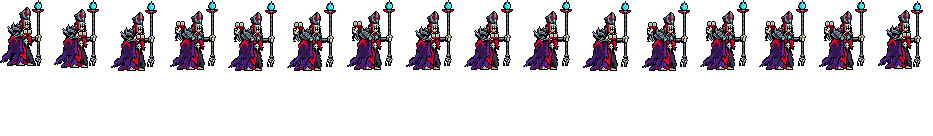
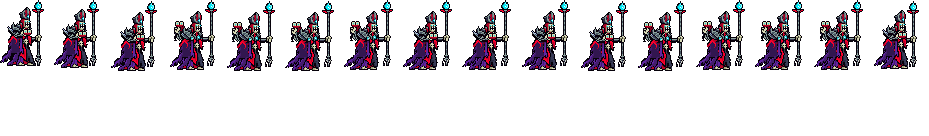
卡尔萨斯动作补帧：R 安魂曲 16 帧 7 姿势 -> 16 帧 11 姿势（悬空时袍子下摆往后拖 1-4 格一来一回；还是用造型自己的格子摆）
用户：「还有有的动画感觉只有一帧 不如oppi的地方都要补 参考联盟的动画」，又说「动画你觉得少的地方就想办法补」「能改就想办法改 全都要改」，
现在「剩下的一批英雄也做了啊 都做完了装进去了再测」。对照表里 R 悬空吟唱的 2.5 秒：书举在头后、举在身前各 4 张，下摆只在拖 2、3 格
之间换，其中两张是同一张画——每个举书的姿势看起来就是一张停 0.84 秒。没有新画，没有交给 Codex，没有用图像模型。
数法：「几帧，其中几个不同的姿势」。

- tools/art/rig_karthus.py（他的图集就是它写的，f7aa50652：干净的树上 rig -> ppu_restyle -> ppu_hd -> hero_reels 四步逐文件
  复现）：R 的 hover 表只改下摆往后拖的格数（它原来的 sway_rows）：书在头后 1、2、3、4，书在身前 4、3、2、1，再举到头后
  2、3、4、3；手臂、书、上下浮动和每张的毫秒照旧，12 张悬空帧每张都不一样
- 时间：起势 110 x 3、悬空 210 x 12、落下 150，一共还是 3000，开始悬空 330、落下 2850 没变；帧数也没变（16）
- 图集和 fanim 重新生成（2048x762 没变）；其余 8 个标签（连同 hd_、lo_ 和待机共 24 个）逐帧像素、时长都没变，跑步
  （下摆和脚不动、只有浮动和两根飘带的那版）逐帧没变；hero_reels.json 不用改（待机剪的是 E），选人卡片还是普攻、Q、E、R
  （53 帧、18160 毫秒，只换了 R 那几张）；选人格子用的那张 1.39 -> 1.41 MiB
- docs/heroes/league_karthus.md「开发记录」加一行

不满意的地方：只有下摆在动（最多 4 格，3 倍下看得见）；举书的手臂还是只有头后、身前两种；起势和落下没补。

查过：hero_reels --check --hero karthus（0）；新旧图集逐帧对比（compare_sheets：24 个标签逐帧没变，R 总长 3000，330 / 2850
两个分界还在）；sheet_audit（R 的两个 1 格针孔是原来那两张自己的）；ui_sheets（bp 304.0 / 768 MiB）；league_viego_soul
make_override 和 --check；gen_hero_docs --check；cargo test --release -p hd_engine -p league_main -p league_viego_soul
-p league_karthus（48 + 41 + 26 + 26 全过）。每帧 3 倍、下摆 5 倍看过；流水线在这次提交上重跑，文件不变。

Changed region(s): [[0.5307, 0.0, 0.9989, 0.5294], [0.0312, 0.0, 0.4995, 0.5294]]

diff --git a/tools/art/rig_karthus.py b/tools/art/rig_karthus.py
@@ -438,8 +438,12 @@ def frames_all(F):
     # then in front, then up again -, coming down; the whole tag 3 s, the channel
     low = dict(near_rot=1, near=NEAR_BOOK, book=BOOK_AT)
     high = dict(near_rot=2, near=NEAR_HIGH, book=BOOK_HIGH)
-    hover = [(high, 0, -2), (high, 1, -3), (high, 1, -3), (high, 0, -2), (low, -1, -2), (low, -1, -3), (low, 0, -3),
-             (low, 1, -2), (high, 1, -2), (high, 0, -3), (high, -1, -3), (high, -1, -2)]
+    # (2026-11-14, the user: 「有的动画感觉只有一帧 不如oppi的地方都要补 参考联盟的动画」: the hover's rags trailed 2 or 3
+    # columns, two hover frames were one picture and each held arm looked like one frame for 840 ms - now the hem's trail
+    # runs 1 to 4 columns and back with each held arm, every hover frame its own picture; the arms, the book, the bob and
+    # the milliseconds as they were)
+    hover = [(high, 0, -1), (high, 1, -2), (high, 1, -3), (high, 0, -4), (low, -1, -4), (low, -1, -3), (low, 0, -2),
+             (low, 1, -1), (high, 1, -2), (high, 0, -3), (high, -1, -4), (high, -1, -3)]
     out["ult"] = ([p(**low), p(staff=(0, -2), whole=(0, -5), hem=-1, **low), p(staff=(0, -4), whole=(0, -10), hem=-2, **low)] +
                   [p(staff=(0, -4), reach=2, whole=(0, -RISE + b), hem=h, **arm) for arm, b, h in hover] +
                   [p(staff=(0, -2), whole=(0, -6), hem=-1, **low)])

diff --git a/docs/heroes/league_karthus.md b/docs/heroes/league_karthus.md
@@ -99,6 +99,7 @@
 | 11 月 3 日（下午） | 用户看比赛时：「等等死歌灵体还是有bug」「死了灵体还能移动 还能有残血？」「这能和英雄联盟一样吗」「还有死了后为什么AI还攻击灵体 很奇怪啊」。0.4.x 的灵体是 1 血、活着的他：只在开头放逐 12 tick，之后小兵、塔、英雄照打（1 血的英雄正是 AI 最想补的），头上一条残血，移速 −100% 挡不住位移；复活时间也从没扣过（`on_dead` 时游戏还没把他记成阵亡，日志 44 次全是 `RESPAWN NOT CUT (alive)`）。附加包 0.5.0：整个灵体放逐着（谁都选不中、打不到，没有血条，不能走、不能回城，钉在倒下的地方），放逐的锁定画面是他的灵体图（`tools/art/draw_karthus_ghost.py`，主包 0.305.0、league.dll 0.9.5 登记），灵体的亵渎、荒芜、安魂曲由附加包照主包的数字和画面放，击杀算他的；复活时间改在阵亡后第一 tick 由 AI 钩子扣 |
 | 11 月 3 日（晚上） | 用户看比赛时：「不行死歌还是不对 灵体结束后还能回城 你修不好了？」「被人击杀后显示灵体就已经是死亡了啊」「灵体状态下会放其他技能吗 也检查下 我怎么感觉不会放」。查日志：倒下那一下和摘掉灵体的不死、减伤在同一 tick，伤害到这一 tick 结算时才扣，刚摘掉的 buff 还算数，只打出 1 点，他 1 血活下来、放逐一完就回城（回城日志：3:55 倒下、3:56 0% 血回城；0.4.2 也一样）；复活时间 0.5.0 一次都没扣成（阵亡后他自己的钩子都不跑）；放逐的单位不给队伍视野，灵体只挑队伍看得见的敌人，身边没队友时荒芜、亵渎打不到人，痛苦之墙挂在普攻上、灵体从没立过。附加包 0.5.1：灵体最后一 tick 换下不死（`p_fall`），放逐正好在 7 秒到时结束，下一 tick 才补致命一击、没倒下就再补，倒下前他什么命令都不下（回城换成站着），韧性缩短了放逐就重新放逐；复活时间由任何还活着的英雄的钩子在他登记阵亡后扣；灵体用自己的眼睛挑目标，W 好了就在 60000 内最近的敌方英雄身上立痛苦之墙（减速 40%、魔抗 −20%，照主包）。日志 `FALL` 记这个灵体放了几次 Q、W、E、R |
 | 11 月 4 日 | 11-03 晚两次启动的日志（0.5.1）：倒下都是真死了（放下不死后 3 tick 第一下就倒，偶尔补第二下），灵体放了 Q、W、E、R，想让他回城的 AI 命令全拦下；可复活时间 120 次全没扣成：0.5.1 由每个英雄的 AI 钩子扣、按模拟状态指针配对，AI 钩子拿到的指针和被动的不一样。附加包 0.5.2：改由本包的比赛钩子（每局每 tick）扣，按「哪一局」（种类、比赛、小局）、玩家、阵亡 tick 配对，第一次看到他阵亡时定下复活的 tick，每份模拟都扣到不晚于它（同一局并排的两份预演共用一条，扣不了两遍）；日志 `MATCH HOOK`、`RESPAWN` |
+| 动作补帧（2026-11-14） | 用户：「还有有的动画感觉只有一帧 不如oppi的地方都要补 参考联盟的动画」，又说「动画你觉得少的地方就想办法补」「能改就想办法改 全都要改」。对照表里 R「安魂曲」：16 帧里只有 7 个姿势，悬空吟唱的 2.5 秒里书举在头后、举在身前各 4 张，袍子下摆只在往后拖 2、3 格之间换，其中两张是同一张画——每个举书的姿势看起来就是一张停 0.84 秒。没有新画，也没交给 Codex：还是 [`tools/art/rig_karthus.py`](../../tools/art/rig_karthus.py) 用造型自己的格子摆的姿势，只把悬空那 12 张下摆往后拖的格数改成随着举书一来一回地 1、2、3、4 格（`hover`，用的还是它原来的 `sway_rows`），手臂、书、浮动、毫秒都照旧。下面写的是「几帧，其中几个不同的姿势」。**R 安魂曲** 16 帧（7 个姿势）→ 16 帧，其中 11 个；悬空 12 张每张都不一样（以前有两张一样）。起势 110×3、悬空 210×12、落下 150，一共还是 3000 毫秒，开始悬空（330）和落下（2850）的毫秒没变。技能数据没改；跑（f7aa50652 那版：下摆和脚不动、只有浮动和两根飘带）、待机、普攻、W、Q、E、受击、阵亡逐帧没变。每帧 3 倍、下摆 5 倍看过。待机剪的还是 E（`hero_reels.json` 不用改），选人卡片还是普攻、Q、E、R，逐帧换的只有 R 那几张（53 帧、一圈 18160 毫秒没变）。图集 2048×762 没变大，选人格子用的那张 1.39 → 1.41 MiB。游戏里还没看过 |
 
 重新生成（素材来自本机的英雄联盟客户端，音频不进仓库）：
 
